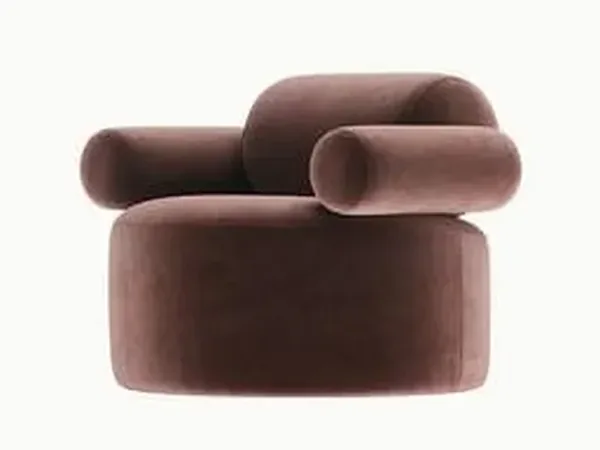
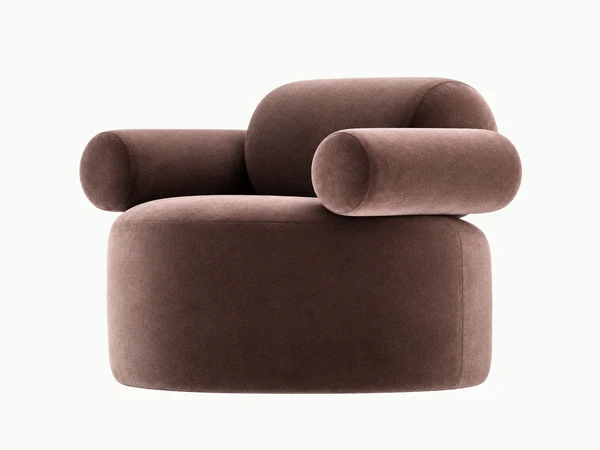
Каталог: улучшенное фото кресла Nimso + скрипт замены фото
tools/media-v3/catalog-replace.py ставит улучшенное фото на место прежнего:
цвет изделия подгоняется к прежнему, фон — цвет страницы, изделие в той же
рамке. Первое фото — p-armchair-10.

Claude-Session: https://claude.ai/code/session_01YU1ch6YPskFUwqRi4VRrCW

diff --git a/tools/media-v3/catalog-replace.py b/tools/media-v3/catalog-replace.py
@@ -1,0 +1,69 @@
+#!/usr/bin/env python3
+"""Заменить фото изделия в каталоге улучшенной версией (заказчик улучшает фото сам и присылает с тем же именем).
+  python3 tools/media-v3/catalog-replace.py <улучшенный файл> <имя на сайте, напр. p-armchair-10> [--keep-color]
+Что делает, чтобы фото встало на место прежнего без перекройки сайта:
+  • цвет изделия подгоняется к прежнему фото (среднее и разброс по каналам на изделии) — улучшайзеры часто темнят и
+    «уводят» оттенок, а цвет ткани должен остаться настоящим; --keep-color — не подгонять;
+  • фон → ровный цвет страницы #FAFAF8 (заливка от краёв, мягкий край);
+  • изделие ставится в тот же прямоугольник, что на прежнем фото (ширина и центр) — поле box в данных не меняется;
+  • пишет img/catalog/<имя>.webp (размер прежнего) и <имя>-600.webp;
+    прежние версии остаются в истории git."""
+import sys, os
+import numpy as np
+from PIL import Image, ImageDraw, ImageFilter
+
+ROOT = os.path.join(os.path.dirname(__file__), '..', '..')
+CAT = os.path.join(ROOT, 'ricca', 'img', 'catalog')
+PAGE = np.array([250, 250, 248], np.float32)
+
+
+def corners_bg(a):
+    k = max(6, min(a.shape[:2]) // 60)
+    return np.median(np.concatenate([a[:k, :k].reshape(-1, 3), a[:k, -k:].reshape(-1, 3), a[-k:, :k].reshape(-1, 3), a[-k:, -k:].reshape(-1, 3)]), 0)
+
+
+def bg_mask(a, tol=22):
+    """Доля фона 0…1: заливка от краёв по пикселям, близким к цвету фона, с мягким краем."""
+    H, W, _ = a.shape
+    d = np.abs(a - corners_bg(a)).max(2)
+    near = Image.fromarray(np.where(d < tol, 255, 0).astype('uint8')).copy()   # copy: иначе floodfill не пишет в картинку из массива
+    px = near.load(); step = max(4, min(W, H) // 150)
+    for s in [(x, 0) for x in range(0, W, step)] + [(x, H - 1) for x in range(0, W, step)] + [(0, y) for y in range(0, H, step)] + [(W - 1, y) for y in range(0, H, step)]:
+        if px[s] == 255: ImageDraw.floodfill(near, s, 128, thresh=0)
+    m = (np.asarray(near) == 128).astype(np.uint8) * 255
+    return np.asarray(Image.fromarray(m).filter(ImageFilter.GaussianBlur(max(1.0, W / 900)))) / 255.0
+
+
+def bbox(a, th=25):
+    """Рамка изделия — одинаковым правилом для старого и нового кадра (отличие от цвета фона > th)."""
+    ys, xs = np.where(np.abs(a - corners_bg(a)).max(2) > th)
+    return xs.min(), ys.min(), xs.max() + 1, ys.max() + 1
+
+
+def main():
+    args = [x for x in sys.argv[1:] if not x.startswith('--')]
+    src, name = args[0], args[1].replace('.webp', '').replace('.jpg', '')
+    old_path = os.path.join(CAT, name + '.webp')
+    old = np.asarray(Image.open(old_path).convert('RGB')).astype(np.float32)
+    new = np.asarray(Image.open(src).convert('RGB')).astype(np.float32)
+    mo, mn = bg_mask(old), bg_mask(new)
+    po, pn = mo < 0.5, mn < 0.5
+    x0, y0, x1, y1 = bbox(old); X0, Y0, X1, Y1 = bbox(new)
+    if '--keep-color' not in sys.argv:
+        for c in range(3):   # цвет изделия → как на прежнем фото
+            a, b = new[..., c][pn], old[..., c][po]
+            new[..., c] = np.where(pn, (new[..., c] - a.mean()) / (a.std() + 1e-6) * b.std() + b.mean(), new[..., c])
+        new = np.clip(new, 0, 255)
+    new = new * (1 - mn[..., None]) + PAGE * mn[..., None]
+    k = (x1 - x0) / (X1 - X0)                      # масштаб: ширина изделия как на прежнем фото
+    H, W = old.shape[:2]
+    big = Image.fromarray(new.astype('uint8')).resize((round(new.shape[1] * k), round(new.shape[0] * k)), Image.LANCZOS)
+    cx, cy = (x0 + x1) / 2, (y0 + y1) / 2; CX, CY = (X0 + X1) / 2 * k, (Y0 + Y1) / 2 * k
+    canvas = Image.new('RGB', (W, H), tuple(int(v) for v in PAGE))
+    canvas.paste(big, (round(cx - CX), round(cy - CY)))
+    canvas.save(old_path, quality=90, method=6)
+    canvas.resize((600, round(600 * H / W)), Image.LANCZOS).save(os.path.join(CAT, name + '-600.webp'), quality=88, method=6)
+    print(f'{name}: изделие ×{k:.3f}, центр ({cx:.0f}, {cy:.0f}) → {old_path}')
+
+
+main()
